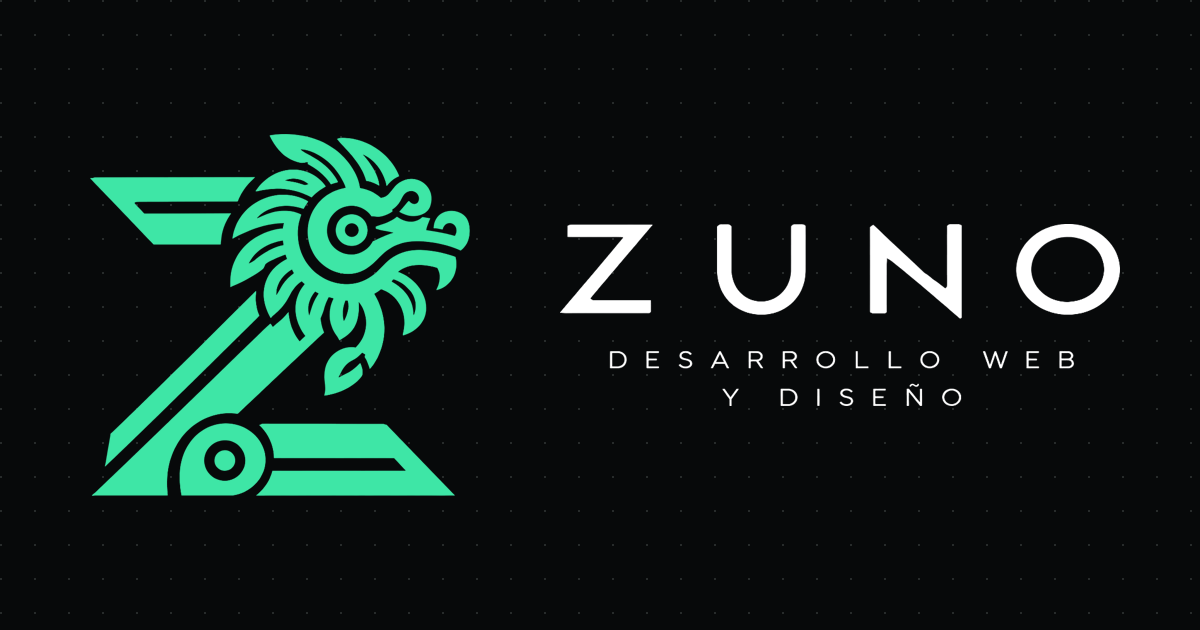
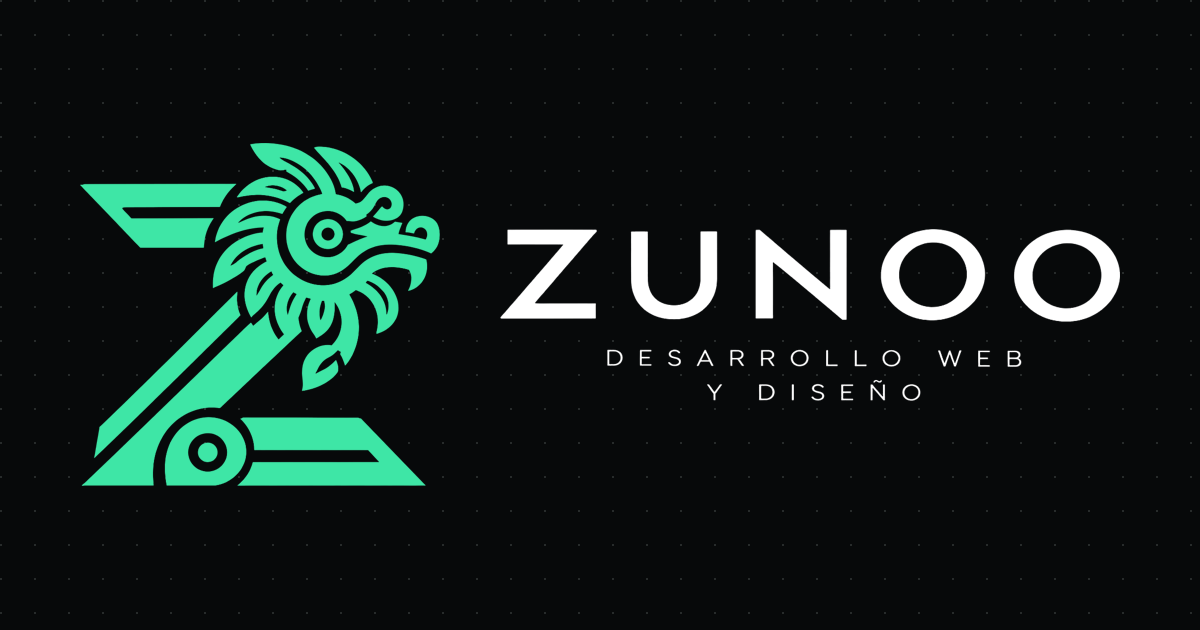
Renombrar a ZUNOO: nuevo logotipo y significado (Zénit, Unidad, Nitidez, Orden, Originalidad)
Claude-Session: https://claude.ai/code/session_015FCgyzc29uKm7BzSBEaKqT

Changed region(s): [[0.0617, 0.2111, 0.925, 0.8143], [0.4933, 0.5429, 0.8942, 0.6635]]

diff --git a/index.html b/index.html
@@ -3,11 +3,11 @@
 <head>
   <meta charset="utf-8">
   <meta name="viewport" content="width=device-width, initial-scale=1, viewport-fit=cover">
-  <title>ZUNO — Diseño y desarrollo web 100% en línea</title>
-  <meta name="description" content="Somos ZUNO, un estudio de diseño y programación web fundado por Alan de Santiago y Gustavo Pérez. Diseñamos y programamos tu sitio web, 100% en línea, para negocios en México y LatAm. Tu visión, nuestro código.">
+  <title>ZUNOO — Diseño y desarrollo web 100% en línea</title>
+  <meta name="description" content="Somos ZUNOO, un estudio de diseño y programación web fundado por Alan de Santiago y Gustavo Pérez. Diseñamos y programamos tu sitio web, 100% en línea, para negocios en México y LatAm. Tu visión, nuestro código.">
   <meta name="theme-color" content="#07090a">
   <meta property="og:type" content="website">
-  <meta property="og:title" content="ZUNO — Diseñamos y programamos tu sitio web">
+  <meta property="og:title" content="ZUNOO — Diseñamos y programamos tu sitio web">
   <meta property="og:description" content="Estudio de diseño y desarrollo web. Tu visión, nuestro código.">
   <meta property="og:image" content="assets/img/og-zuno.png">
   <link rel="icon" type="image/png" href="assets/img/favicon.png">
@@ -15,13 +15,13 @@
   <link rel="preconnect" href="https://fonts.googleapis.com">
   <link rel="preconnect" href="https://fonts.gstatic.com" crossorigin>
   <link href="https://fonts.googleapis.com/css2?family=Instrument+Serif:ital@0;1&family=Inter+Tight:wght@300;400;500;600;700&family=JetBrains+Mono:wght@400;500&family=Syne:wght@600;700;800&display=swap" rel="stylesheet">
-  <link rel="stylesheet" href="styles.css?v=20261016d">
+  <link rel="stylesheet" href="styles.css?v=20261016e">
   <script type="application/ld+json">
   {
     "@context": "https://schema.org",
     "@type": "Organization",
-    "name": "ZUNO",
-    "alternateName": "Zona de Utilidad, Navegación y Organización",
+    "name": "ZUNOO",
+    "alternateName": "Zénit, Unidad, Nitidez, Orden, Originalidad",
     "slogan": "Tu visión, nuestro código",
     "description": "Estudio de diseño y desarrollo web que trabaja 100% en línea.",
     "logo": "assets/img/apple-touch-icon.png",
@@ -51,9 +51,9 @@
   </div>
 
   <header class="nav" id="top">
-    <a class="nav__brand" href="#inicio" aria-label="ZUNO, inicio">
+    <a class="nav__brand" href="#inicio" aria-label="ZUNOO, inicio">
       <span class="nav__emblem" aria-hidden="true"></span>
-      <span class="nav__word">ZUNO</span>
+      <span class="nav__word">ZUNOO</span>
     </a>
     <nav class="nav__links" aria-label="Principal">
       <a href="#por-que">Por qué</a>
@@ -69,7 +69,7 @@
 
   <div class="drawer" aria-hidden="true">
     <nav>
-      <a href="#por-que">Por qué ZUNO</a>
+      <a href="#por-que">Por qué ZUNOO</a>
       <a href="#historia">Nuestra historia</a>
       <a href="#servicios">Lo que hacemos</a>
       <a href="#equipo">Quiénes somos</a>
@@ -86,8 +86,8 @@
       <div class="hero__inner wrap">
         <div class="hero__copy">
           <p class="eyebrow reveal"><span class="dot"></span> Estudio de diseño y desarrollo web · 100% en línea</p>
-          <h1 class="hero__name" aria-label="ZUNO">
-            <span class="split" data-split>ZUNO</span>
+          <h1 class="hero__name" aria-label="ZUNOO">
+            <span class="split" data-split>ZUNOO</span>
           </h1>
           <p class="hero__title reveal">Diseñamos y programamos <em>tu sitio web.</em></p>
           <p class="hero__slogan reveal"><span class="mono">//</span> Tu visión, nuestro código.</p>
@@ -122,13 +122,13 @@
     </section>
 
     <!-- ================= ACRONYM STRIP ================= -->
-    <div class="strip" aria-label="ZUNO significa Zona de Utilidad, Navegación y Organización">
+    <div class="strip" aria-label="ZUNOO: Zénit, Unidad, Nitidez, Orden, Originalidad">
       <div class="strip__track">
-        <span><b>Z</b>ona de <b>U</b>tilidad, <b>N</b>avegación y <b>O</b>rganización</span><i>✦</i>
+        <span><b>Z</b>énit · <b>U</b>nidad · <b>N</b>itidez · <b>O</b>rden · <b>O</b>riginalidad</span><i>✦</i>
         <span>Tu visión, nuestro código</span><i>✦</i>
-        <span><b>Z</b>ona de <b>U</b>tilidad, <b>N</b>avegación y <b>O</b>rganización</span><i>✦</i>
+        <span><b>Z</b>énit · <b>U</b>nidad · <b>N</b>itidez · <b>O</b>rden · <b>O</b>riginalidad</span><i>✦</i>
         <span>Tu visión, nuestro código</span><i>✦</i>
-        <span><b>Z</b>ona de <b>U</b>tilidad, <b>N</b>avegación y <b>O</b>rganización</span><i>✦</i>
+        <span><b>Z</b>énit · <b>U</b>nidad · <b>N</b>itidez · <b>O</b>rden · <b>O</b>riginalidad</span><i>✦</i>
         <span>Tu visión, nuestro código</span><i>✦</i>
       </div>
     </div>
@@ -139,7 +139,7 @@
         <header class="head reveal">
           <p class="kicker"><span class="mono">01</span> Por qué trabajar con nosotros</p>
           <h2>Trato directo, <em>a propósito.</em></h2>
-          <p class="lead">Sin capas ni teléfono descompuesto. Los fundadores de ZUNO se involucran en tu proyecto de principio a fin.</p>
+          <p class="lead">Sin capas ni teléfono descompuesto. Los fundadores de ZUNOO se involucran en tu proyecto de principio a fin.</p>
         </header>
         <div class="why">
           <article class="card why__card reveal" data-spot>
@@ -173,15 +173,16 @@
         <div class="story__copy reveal">
           <p class="kicker"><span class="mono">02</span> Nuestra historia</p>
           <h2>Diseño y código, <em>un mismo oficio.</em></h2>
-          <p>ZUNO nace de una idea simple: un buen sitio web necesita verse increíble <strong>y</strong> funcionar impecable. Casi siempre esas dos cosas las hacen equipos distintos, que no se hablan entre sí. Nosotros decidimos juntarlas.</p>
-          <p>Alan de Santiago piensa en cómo se ve, se lee y se siente cada pantalla. Gustavo Pérez se asegura de que todo cargue rápido, sea seguro y no falle. Así nació ZUNO: un estudio donde cada decisión de diseño ya sabe cómo se va a programar, y cada línea de código respeta lo que se diseñó.</p>
-          <p>Por eso nuestro nombre es una promesa de trabajo: que tu sitio sea <em>útil</em>, fácil de <em>navegar</em> y esté bien <em>organizado</em>. Lo que nos diferencia es que con nosotros no hay intermediarios: hablas directamente con los fundadores de ZUNO desde la primera llamada hasta el lanzamiento.</p>
+          <p>ZUNOO nace de una idea simple: un buen sitio web necesita verse increíble <strong>y</strong> funcionar impecable. Casi siempre esas dos cosas las hacen equipos distintos, que no se hablan entre sí. Nosotros decidimos juntarlas.</p>
+          <p>Alan de Santiago piensa en cómo se ve, se lee y se siente cada pantalla. Gustavo Pérez se asegura de que todo cargue rápido, sea seguro y no falle. Así nació ZUNOO: un estudio donde cada decisión de diseño ya sabe cómo se va a programar, y cada línea de código respeta lo que se diseñó.</p>
+          <p>Por eso nuestro nombre es una promesa de trabajo: apuntar al <em>zénit</em> de la calidad, con <em>unidad</em> entre diseño y tecnología, <em>nitidez</em> en cada interfaz, <em>orden</em> en cada línea de código y <em>originalidad</em> en cada proyecto. Lo que nos diferencia es que con nosotros no hay intermediarios: hablas directamente con los fundadores de ZUNOO desde la primera llamada hasta el lanzamiento.</p>
         </div>
-        <div class="acro reveal" aria-label="Significado de ZUNO">
-          <div class="acro__row" data-spot><span class="acro__l">Z</span><span class="acro__w">ona</span><span class="acro__d">El espacio digital de tu negocio.</span></div>
-          <div class="acro__row" data-spot><span class="acro__l">U</span><span class="acro__w">tilidad</span><span class="acro__d">Cada sección tiene un propósito.</span></div>
-          <div class="acro__row" data-spot><span class="acro__l">N</span><span class="acro__w">avegación</span><span class="acro__d">Que tus clientes encuentren todo sin pensar.</span></div>
-          <div class="acro__row" data-spot><span class="acro__l">O</span><span class="acro__w">rganización</span><span class="acro__d">Contenido claro, código ordenado.</span></div>
+        <div class="acro reveal" aria-label="Significado de ZUNOO">
+          <div class="acro__row" data-spot><span class="acro__l">Z</span><span class="acro__w">énit</span><span class="acro__d">Aspirar al máximo nivel de calidad.</span></div>
+          <div class="acro__row" data-spot><span class="acro__l">U</span><span class="acro__w">nidad</span><span class="acro__d">Integrar diseño, tecnología y funcionalidad.</span></div>
+          <div class="acro__row" data-spot><span class="acro__l">N</span><span class="acro__w">itidez</span><span class="acro__d">Crear interfaces claras, limpias y elegantes.</span></div>
+          <div class="acro__row" data-spot><span class="acro__l">O</span><span class="acro__w">rden</span><span class="acro__d">Desarrollar soluciones estructuradas y eficientes.</span></div>
+          <div class="acro__row" data-spot><span class="acro__l">O</span><span class="acro__w">riginalidad</span><span class="acro__d">Dar a cada proyecto una identidad propia.</span></div>
         </div>
       </div>
     </section>
@@ -241,8 +242,8 @@
       <div class="wrap">
         <header class="head reveal">
           <p class="kicker"><span class="mono">04</span> Quiénes somos</p>
-          <h2>Fundadores y creadores <em>de ZUNO.</em></h2>
-          <p class="lead">Detrás de cada proyecto están quienes crearon ZUNO, y con ellos hablas desde el primer mensaje hasta el lanzamiento.</p>
+          <h2>Fundadores y creadores <em>de ZUNOO.</em></h2>
+          <p class="lead">Detrás de cada proyecto están quienes crearon ZUNOO, y con ellos hablas desde el primer mensaje hasta el lanzamiento.</p>
         </header>
         <div class="team">
           <article class="member reveal" data-tilt-card data-spot>
@@ -362,13 +363,13 @@
 
           <div class="channels">
             <a class="channel magnetic" data-spot target="_blank" rel="noopener"
-               href="https://wa.me/528715222154?text=Hola%20ZUNO%20%F0%9F%91%8B%20Me%20interesa%20cotizar%20una%20p%C3%A1gina%20web%20para%20mi%20negocio.%20%C2%BFMe%20pueden%20dar%20informaci%C3%B3n%3F">
+               href="https://wa.me/528715222154?text=Hola%20ZUNOO%20%F0%9F%91%8B%20Me%20interesa%20cotizar%20una%20p%C3%A1gina%20web%20para%20mi%20negocio.%20%C2%BFMe%20pueden%20dar%20informaci%C3%B3n%3F">
               <span class="channel__ic"><svg viewBox="0 0 24 24"><path d="M20.5 3.5A11.8 11.8 0 0 0 1.9 17.6L.3 23.7l6.3-1.6A11.8 11.8 0 0 0 20.5 3.5zM12 21.6c-1.8 0-3.5-.5-5-1.4l-.4-.2-3.7 1 1-3.6-.2-.4A9.8 9.8 0 1 1 12 21.6zm5.4-7.3c-.3-.1-1.8-.9-2-1-.3-.1-.5-.1-.7.2l-.9 1.1c-.2.2-.3.2-.6.1-1.6-.8-2.7-1.4-3.8-3.3-.3-.5.3-.5.8-1.6.1-.2 0-.4 0-.5l-.9-2.2c-.2-.6-.5-.5-.7-.5h-.6c-.2 0-.5.1-.8.4-.3.3-1 1-1 2.5s1.1 2.9 1.2 3.1c.1.2 2.1 3.2 5.1 4.5 1.9.8 2.6.9 3.6.7.6-.1 1.8-.7 2-1.5.3-.7.3-1.3.2-1.5-.1-.1-.3-.2-.6-.3z"/></svg></span>
               <span class="channel__txt"><small class="mono">Ventas · cotizaciones</small><b>871 522 2154</b></span>
               <span class="channel__go" aria-hidden="true">↗</span>
             </a>
             <a class="channel magnetic" data-spot target="_blank" rel="noopener"
-               href="https://wa.me/524921059504?text=Hola%20ZUNO%2C%20tengo%20una%20consulta%20para%20administraci%C3%B3n.">
+               href="https://wa.me/524921059504?text=Hola%20ZUNOO%2C%20tengo%20una%20consulta%20para%20administraci%C3%B3n.">
               <span class="channel__ic"><svg viewBox="0 0 24 24"><path d="M20.5 3.5A11.8 11.8 0 0 0 1.9 17.6L.3 23.7l6.3-1.6A11.8 11.8 0 0 0 20.5 3.5zM12 21.6c-1.8 0-3.5-.5-5-1.4l-.4-.2-3.7 1 1-3.6-.2-.4A9.8 9.8 0 1 1 12 21.6zm5.4-7.3c-.3-.1-1.8-.9-2-1-.3-.1-.5-.1-.7.2l-.9 1.1c-.2.2-.3.2-.6.1-1.6-.8-2.7-1.4-3.8-3.3-.3-.5.3-.5.8-1.6.1-.2 0-.4 0-.5l-.9-2.2c-.2-.6-.5-.5-.7-.5h-.6c-.2 0-.5.1-.8.4-.3.3-1 1-1 2.5s1.1 2.9 1.2 3.1c.1.2 2.1 3.2 5.1 4.5 1.9.8 2.6.9 3.6.7.6-.1 1.8-.7 2-1.5.3-.7.3-1.3.2-1.5-.1-.1-.3-.2-.6-.3z"/></svg></span>
               <span class="channel__txt"><small class="mono">Administración</small><b>492 105 9504</b></span>
               <span class="channel__go" aria-hidden="true">↗</span>
@@ -416,9 +417,9 @@
   <footer class="footer">
     <div class="wrap footer__inner">
       <div class="footer__brand">
-        <span class="footer__wordmark" role="img" aria-label="ZUNO"></span>
+        <span class="footer__wordmark" role="img" aria-label="ZUNOO"></span>
         <p class="footer__slogan">Tu visión, nuestro código.</p>
-        <p class="footer__acro mono">Zona de Utilidad, Navegación y Organización</p>
+        <p class="footer__acro mono">Zénit · Unidad · Nitidez · Orden · Originalidad</p>
       </div>
       <nav class="footer__nav" aria-label="Pie de página">
         <a href="#servicios">Servicios</a>
@@ -427,18 +428,18 @@
         <a href="#contacto">Contacto</a>
       </nav>
       <div class="footer__base">
-        <p>© <span data-year>2026</span> ZUNO · Desarrollo web y diseño · 100% en línea</p>
+        <p>© <span data-year>2026</span> ZUNOO · Desarrollo web y diseño · 100% en línea</p>
         <a href="#inicio" class="footer__top">Volver arriba ↑</a>
       </div>
     </div>
   </footer>
 
   <a class="wa-float" target="_blank" rel="noopener" aria-label="Escríbenos por WhatsApp"
-     href="https://wa.me/528715222154?text=Hola%20ZUNO%20%F0%9F%91%8B%20Me%20interesa%20cotizar%20una%20p%C3%A1gina%20web%20para%20mi%20negocio.%20%C2%BFMe%20pueden%20dar%20informaci%C3%B3n%3F">
+     href="https://wa.me/528715222154?text=Hola%20ZUNOO%20%F0%9F%91%8B%20Me%20interesa%20cotizar%20una%20p%C3%A1gina%20web%20para%20mi%20negocio.%20%C2%BFMe%20pueden%20dar%20informaci%C3%B3n%3F">
     <svg viewBox="0 0 24 24"><path d="M20.5 3.5A11.8 11.8 0 0 0 1.9 17.6L.3 23.7l6.3-1.6A11.8 11.8 0 0 0 20.5 3.5zM12 21.6c-1.8 0-3.5-.5-5-1.4l-.4-.2-3.7 1 1-3.6-.2-.4A9.8 9.8 0 1 1 12 21.6zm5.4-7.3c-.3-.1-1.8-.9-2-1-.3-.1-.5-.1-.7.2l-.9 1.1c-.2.2-.3.2-.6.1-1.6-.8-2.7-1.4-3.8-3.3-.3-.5.3-.5.8-1.6.1-.2 0-.4 0-.5l-.9-2.2c-.2-.6-.5-.5-.7-.5h-.6c-.2 0-.5.1-.8.4-.3.3-1 1-1 2.5s1.1 2.9 1.2 3.1c.1.2 2.1 3.2 5.1 4.5 1.9.8 2.6.9 3.6.7.6-.1 1.8-.7 2-1.5.3-.7.3-1.3.2-1.5-.1-.1-.3-.2-.6-.3z"/></svg>
   </a>
 
-  <script defer src="lib/manifest.js?v=20261016d"></script>
-  <script defer src="main.js?v=20261016d"></script>
+  <script defer src="lib/manifest.js?v=20261016e"></script>
+  <script defer src="main.js?v=20261016e"></script>
 </body>
 </html>

diff --git a/styles.css b/styles.css
@@ -1,5 +1,5 @@
 /* =========================================================
-   ZUNO — Diseño y desarrollo web
+   ZUNOO — Diseño y desarrollo web
    Archetype: Mouse-Reactive (obsidiana + jade + ámbar)
    ========================================================= */
 
@@ -164,7 +164,7 @@ body.is-ready .splash { opacity: 0; visibility: hidden; }
 @keyframes ping { 0% { box-shadow: 0 0 0 0 rgba(62,230,166,.6); } 80%, 100% { box-shadow: 0 0 0 10px rgba(62,230,166,0); } }
 
 .hero__name {
-  margin: 26px 0 18px; font: 800 clamp(64px, 8.6vw, 132px)/.86 var(--f-display); letter-spacing: -.02em;
+  margin: 26px 0 18px; font: 800 clamp(56px, 7vw, 112px)/.86 var(--f-display); letter-spacing: -.02em;
   background: linear-gradient(180deg, #ffffff 0%, #d9e4df 55%, #7d8a86 100%);
   -webkit-background-clip: text; background-clip: text; color: transparent;
   filter: drop-shadow(0 20px 60px rgba(62, 230, 166, .15));
@@ -297,11 +297,11 @@ h2 em { color: var(--jade); }
 .acro { display: grid; gap: 10px; }
 .acro__row {
   display: grid; grid-template-columns: auto 1fr; grid-template-rows: auto auto; column-gap: 22px; align-items: baseline;
-  padding: 22px 26px; border: 1px solid var(--line); border-radius: var(--radius); background: rgba(255,255,255,.02);
+  padding: 16px 24px; border: 1px solid var(--line); border-radius: var(--radius); background: rgba(255,255,255,.02);
   transition: transform .5s var(--ease), background .4s;
 }
 .acro__row:hover { transform: translateX(10px); background: rgba(255,255,255,.04); }
-.acro__l { grid-row: span 2; font: 800 clamp(56px, 6vw, 84px)/.9 var(--f-display); background: var(--grad); -webkit-background-clip: text; background-clip: text; color: transparent; width: 1.1em; }
+.acro__l { grid-row: span 2; font: 800 clamp(48px, 5vw, 70px)/.9 var(--f-display); background: var(--grad); -webkit-background-clip: text; background-clip: text; color: transparent; width: 1.1em; }
 .acro__w { font: 400 clamp(26px, 2.6vw, 36px)/1.1 var(--f-serif); font-style: italic; }
 .acro__d { color: var(--muted); font-size: 15px; }
 
@@ -427,9 +427,9 @@ h2 em { color: var(--jade); }
 .footer { border-top: 1px solid var(--line); padding: 70px 0 40px; background: linear-gradient(180deg, transparent, rgba(62,230,166,.03)); }
 .footer__inner { display: grid; grid-template-columns: 1fr auto; gap: 40px; }
 .footer__wordmark {
-  display: block; width: min(320px, 70vw); aspect-ratio: 888/289; background: var(--grad);
-  -webkit-mask: url(assets/img/zuno-wordmark.png) left center/contain no-repeat;
-          mask: url(assets/img/zuno-wordmark.png) left center/contain no-repeat;
+  display: block; width: min(320px, 70vw); aspect-ratio: 1036/288; background: var(--grad);
+  -webkit-mask: url(assets/img/zunoo-wordmark.png) left center/contain no-repeat;
+          mask: url(assets/img/zunoo-wordmark.png) left center/contain no-repeat;
 }
 .footer__slogan { margin-top: 22px; font: 400 28px/1.1 var(--f-serif); font-style: italic; }
 .footer__acro { margin-top: 10px; color: var(--dim); }
@@ -484,7 +484,7 @@ h2 em { color: var(--jade); }
   body.menu-open { overflow: hidden; }
 
   .hero__inner { grid-template-columns: minmax(0, 1fr); text-align: left; }
-  .hero__name { font-size: clamp(60px, 16vw, 132px); }
+  .hero__name { font-size: clamp(48px, 13vw, 112px); }
   .hero__visual { order: -1; max-width: 340px; margin-top: 10px; }
   .hero { padding-top: 100px; }
   .head--split { grid-template-columns: 1fr; gap: 0; }

diff --git a/lib/manifest.js b/lib/manifest.js
@@ -1,8 +1,8 @@
 (function () {
   "use strict";
   window.__BRAND__ = {
-    name: "ZUNO",
-    meaning: "Zona de Utilidad, Navegación y Organización",
+    name: "ZUNOO",
+    meaning: "Zénit, Unidad, Nitidez, Orden, Originalidad",
     slogan: "Tu visión, nuestro código",
     colors: { jade: "#3ee6a6", amber: "#f2b45a", bg: "#07090a" },
     whatsapp: {

diff --git a/main.js b/main.js
@@ -323,7 +323,7 @@
       var tipo = tipoEl ? tipoEl.value : "Página web";
       var msg = form.mensaje.value.trim();
       var lines = [
-        "Hola ZUNO 👋 Quiero cotizar una página web.",
+        "Hola ZUNOO 👋 Quiero cotizar una página web.",
         "",
         "• Nombre: " + nombre
       ];
